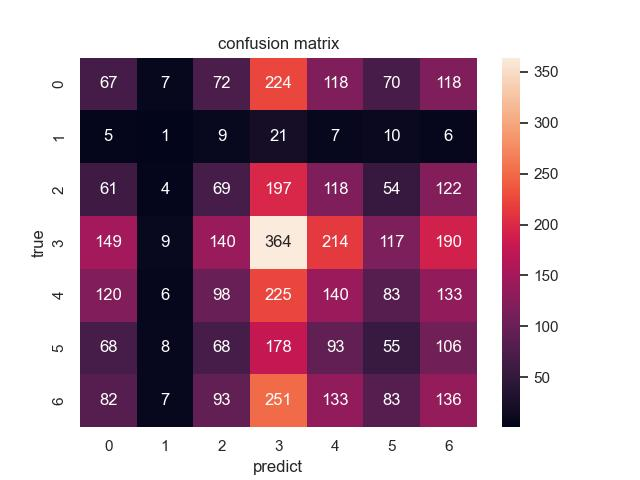
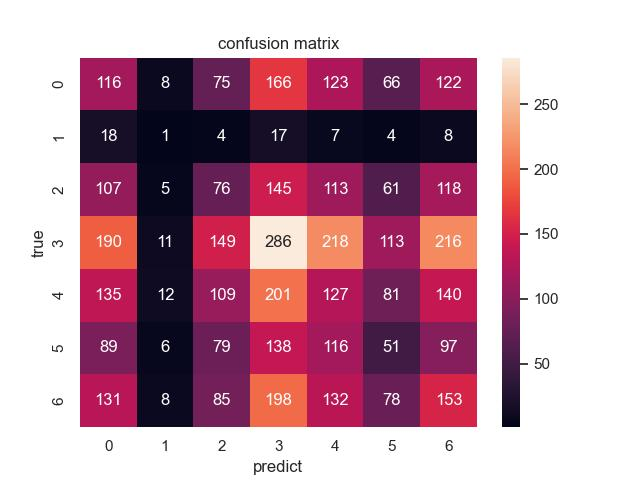
2307141520 commit add(ResNet)

diff --git a/TrainModel.py b/TrainModel.py
@@ -17,29 +17,35 @@ val_path = './customDatasets/val_dataset.pt'
 # 设置训练参数
 batch_size = 120
 learning_rate = 0.0008
-num_epochs = 30
-
-train_lost=[]
-vaild_loss = []
-vaild_ac = []
-y_pred = []
+num_epochs = 50
 
 def main():
-    
+    # 判断是否数据增强，定义在ModelDdefinition内
+    global arugment
+
     # # 加载训练数据集
     # train_dataset = torchvision.datasets.MNIST(root='./data', train=True, transform=transform, # transfrom定义在模型中作为转换函数
     #                                            download=True)
     train_dataset = torch.load(train_path)
     train_loader = torch.utils.data.DataLoader(train_dataset, batch_size=batch_size, shuffle=True, num_workers=2)
+    
+    train_loss=[]
+    valid_loss = []
+    valid_acc = []
 
     # 初始化模型和损失函数
-    model = CNN().to(device)
+    
+    # model = CNN().to(device)
+    model = ResNet(BasicBlock, [2, 2, 2, 2]).to(device)
+    
     criterion = nn.CrossEntropyLoss()
     optimizer = optim.Adam(model.parameters(), lr=learning_rate)
 
     # 开始训练
     total_step = len(train_loader)
     for epoch in range(num_epochs):
+        # 启用数据增强
+        arugment=True
         for i, (images, labels) in enumerate(train_loader):
             # 将输入数据和标签移动到设备
             images = images.to(device)
@@ -59,23 +65,82 @@ def main():
                 print('Epoch [{}/{}], Step [{}/{}], Loss: {:.4f}'
                       .format(epoch+1, num_epochs, i+1, total_step, loss.item()))
         
-        train_lost.append(loss.item())
-
+        # 为了打印图像做的处理
+        arugment=False
+        train_loss.append(loss.item())
+        model.eval()
+        correct=0;
+        y_pred = []
+        with torch.no_grad():
+            val_dataset = torch.load(val_path)
+            val_loader = torch.utils.data.DataLoader(val_dataset, batch_size=batch_size, shuffle=True, num_workers=2)
+            for i, (images, labels) in enumerate(val_loader):
+                # 将输入数据和标签移动到设备
+                images = images.to(device)
+                labels = labels.to(device)
+                
+                # 前向传播
+                outputs = model(images)
+                loss = criterion(outputs, labels)
+                
+                pred = outputs.max(1,keepdim=True)[1]
+                y_pred += pred.view(pred.size()[0]).cpu().numpy().tolist()
+                correct += pred.eq(labels.view_as(pred)).sum().item()
+                
+        valid_acc.append(correct/len(val_dataset)) 
+        valid_loss.append(loss.item())
+        print("Test Loss {:.4f} Accuracy {}/{} ({:.0f}%)".format(loss,correct,len(val_dataset),100.*correct/len(val_dataset)))
+        model.train()
+    
     # 保存模型
     model = model.to('cpu')
     torch.save(model.state_dict(), './models/cnn_model.pth')
     
+    # 训练完成后打印图像
+    # 创建 x 轴数据
+    x = range(1, num_epochs + 1)
+    x_acc=range(1, num_epochs + 1)
+
+    # 绘制训练损失和验证损失曲线
+    plt.plot(x, train_loss, label='Train Loss')
+    plt.plot(x, valid_loss, label='Valid Loss')
+
+    # 添加图例和标签
+    plt.legend()
+    plt.xlabel('Epochs')
+    plt.ylabel('Loss')
+
+    # 显示图形
+    plt.savefig('./images/Loss-epoches.jpg')
+
+    # 绘制验证准确率曲线
+    plt.plot(x_acc, valid_acc, label='Valid Accuracy')
+
+    # 添加图例和标签
+    plt.legend()
+    plt.xlabel('Epochs')
+    plt.ylabel('Accuracy')
+
+    # 显示图形
+    plt.savefig('./images/Acc-epoches.jpg')
+    
     # 验证用
-    model=CNN()
+    # model=CNN()
+    model=ResNet(BasicBlock, [2, 2, 2, 2])
+    
     model.load_state_dict(torch.load('./models/cnn_model.pth')) 
     model.to(device) 
+    
+    arugment=False
     
     # 验证模型
     model.eval()
     
     # 正确的数量
     correct=0;
-    
+    valid_loss = []
+    valid_acc = []
+    y_pred = []
     with torch.no_grad():
         val_dataset = torch.load(val_path)
         val_loader = torch.utils.data.DataLoader(val_dataset, batch_size=batch_size, shuffle=True, num_workers=2)
@@ -83,7 +148,7 @@ def main():
             # 将输入数据和标签移动到设备
             images = images.to(device)
             labels = labels.to(device)
-
+            
             # 前向传播
             outputs = model(images)
             loss = criterion(outputs, labels)
@@ -92,8 +157,8 @@ def main():
             y_pred += pred.view(pred.size()[0]).cpu().numpy().tolist()
             correct += pred.eq(labels.view_as(pred)).sum().item()
             
-    vaild_ac.append(correct/len(val_dataset)) 
-    vaild_loss.append(loss.item())
+    valid_acc.append(correct/len(val_dataset)) 
+    valid_loss.append(loss.item())
     print("Test Loss {:.4f} Accuracy {}/{} ({:.0f}%)".format(loss,correct,len(val_dataset),100.*correct/len(val_dataset)))
     
     # 画热力图

diff --git a/models/ModelDefinition.py b/models/ModelDefinition.py
@@ -9,6 +9,46 @@ from PIL import Image
 import os
 import pandas as pd
 import numpy as np
+import torch.nn.functional as F
+from torchvision.transforms import (
+    Grayscale,
+    TenCrop,
+    Lambda,
+    Normalize,
+    RandomResizedCrop,
+    ColorJitter,
+    RandomAffine,
+    RandomHorizontalFlip,
+    RandomRotation,
+    FiveCrop,
+    RandomErasing
+)
+
+arugment=True
+
+if arugment==True:
+    transform = transforms.Compose([
+        transforms.Resize((48,48)),
+
+        RandomResizedCrop((48,48)),
+        ColorJitter(),
+        RandomAffine(degrees=0, translate=(0.1, 0.1)),
+        RandomHorizontalFlip(),
+        RandomRotation(degrees=10),
+        FiveCrop(size=40),
+        Lambda(lambda crops: torch.stack([transforms.ToTensor()(crop) for crop in crops])),
+        RandomErasing(),
+        
+        transforms.ToTensor(),
+        transforms.Normalize((0.5,), (0.5,))
+    ])
+else:
+    transform = transforms.Compose([
+        transforms.Resize((48,48)),
+        Grayscale(),
+        transforms.ToTensor(),
+        transforms.Normalize((0.5,), (0.5,))
+    ])
 
 class CNN(nn.Module):
     def __init__(self):
@@ -72,8 +112,72 @@ class CustomDataset(Dataset):
 
         return image, label
 
-transform = transforms.Compose([
-    transforms.Resize((48,48)),
-    transforms.ToTensor(),
-    transforms.Normalize((0.5,), (0.5,))
-])
+
+class BasicBlock(nn.Module):
+    expansion = 1
+ 
+    def __init__(self, in_planes, planes, stride=1):
+        super(BasicBlock, self).__init__()
+        self.conv1 = nn.Conv2d(
+            in_planes, planes, kernel_size=3, stride=stride, padding=1, bias=False)
+        self.bn1 = nn.BatchNorm2d(planes)
+        self.conv2 = nn.Conv2d(planes, planes, kernel_size=3,
+                               stride=1, padding=1, bias=False)
+        self.bn2 = nn.BatchNorm2d(planes)
+ 
+        self.shortcut = nn.Sequential()
+ 
+        '''
+        如果步长 stride 不为 1 或者输入通道数 in_planes 不等于扩展系数 self.expansion 乘以输出通道数 planes，
+        则需要进行维度匹配，使用一个包含一个卷积层和一个批量归一化层的序列 self.shortcut 来进行匹配
+        '''
+        if stride != 1 or in_planes != self.expansion * planes:
+            self.shortcut = nn.Sequential(
+                nn.Conv2d(in_planes, self.expansion * planes,
+                          kernel_size=1, stride=stride, bias=False),
+                nn.BatchNorm2d(self.expansion * planes)
+            )
+ 
+    def forward(self, x):
+        out = F.relu(self.bn1(self.conv1(x)))
+        out = self.bn2(self.conv2(out))
+        out += self.shortcut(x)
+        out = F.relu(out)
+        return out
+ 
+
+ 
+class ResNet(nn.Module):
+    def __init__(self, block, num_blocks, num_classes=7):
+        super(ResNet, self).__init__()
+        self.in_planes = 64
+ 
+        self.conv1 = nn.Conv2d(1, 64, kernel_size=3, stride=1, padding=1, bias=False)
+        self.bn1 = nn.BatchNorm2d(64)
+        self.layer1 = self._make_layer(block, 64, num_blocks[0], stride=1)
+        self.layer2 = self._make_layer(block, 128, num_blocks[1], stride=2)
+        self.layer3 = self._make_layer(block, 256, num_blocks[2], stride=2)
+        self.layer4 = self._make_layer(block, 512, num_blocks[3], stride=2)
+        self.linear = nn.Linear(512 * block.expansion, num_classes)
+ 
+    def _make_layer(self, block, planes, num_blocks, stride):
+        strides = [stride] + [1] * (num_blocks - 1)
+        layers = []
+        for stride in strides:
+            layers.append(block(self.in_planes, planes, stride))
+            self.in_planes = planes * block.expansion
+        return nn.Sequential(*layers)
+ 
+    def forward(self, x):
+        out = F.relu(self.bn1(self.conv1(x)))
+        out = self.layer1(out)
+        out = self.layer2(out)
+        out = self.layer3(out)
+        out = self.layer4(out)
+        out = F.avg_pool2d(out, 4)
+        out = out.view(out.size(0), -1)
+        out = self.linear(out)
+        return out
+ 
+def ResNet18():
+    return ResNet(BasicBlock, [2, 2, 2, 2])
